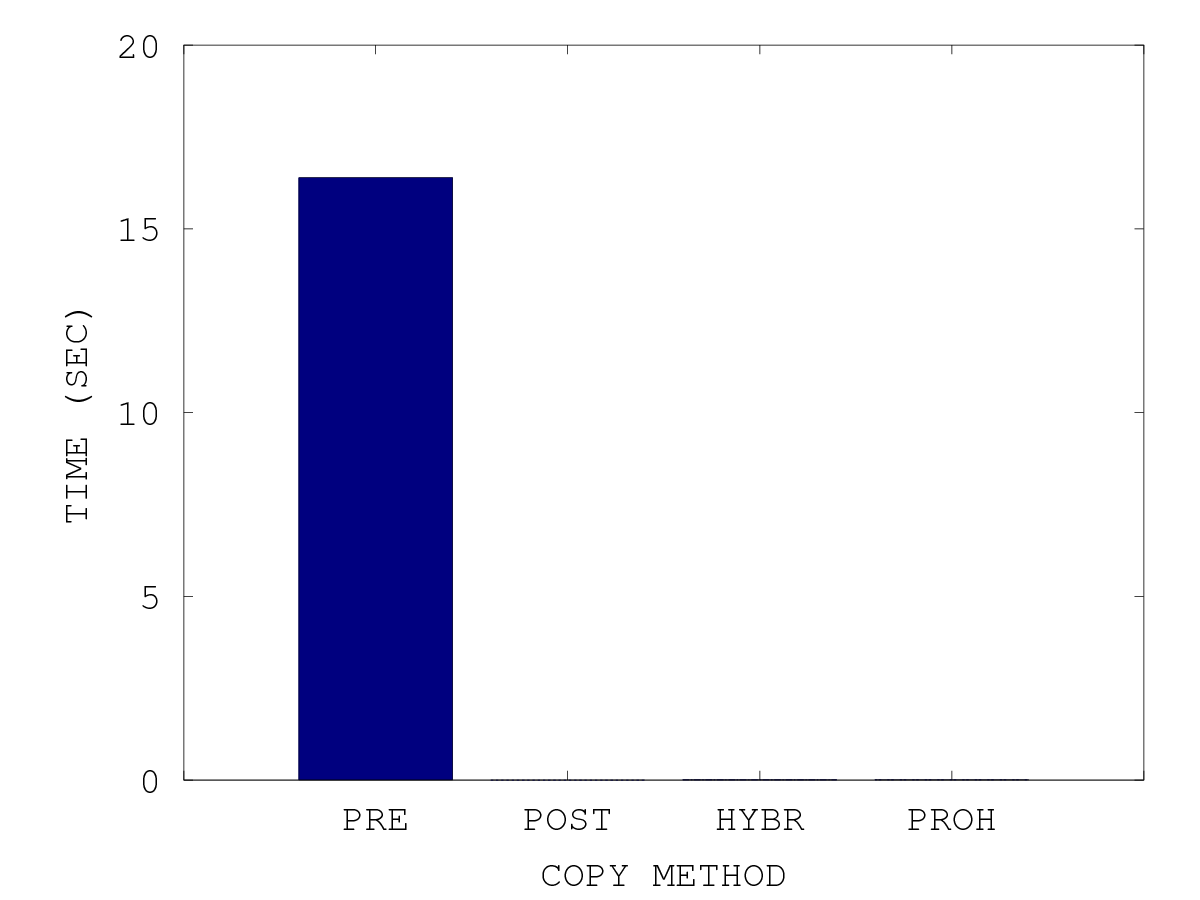
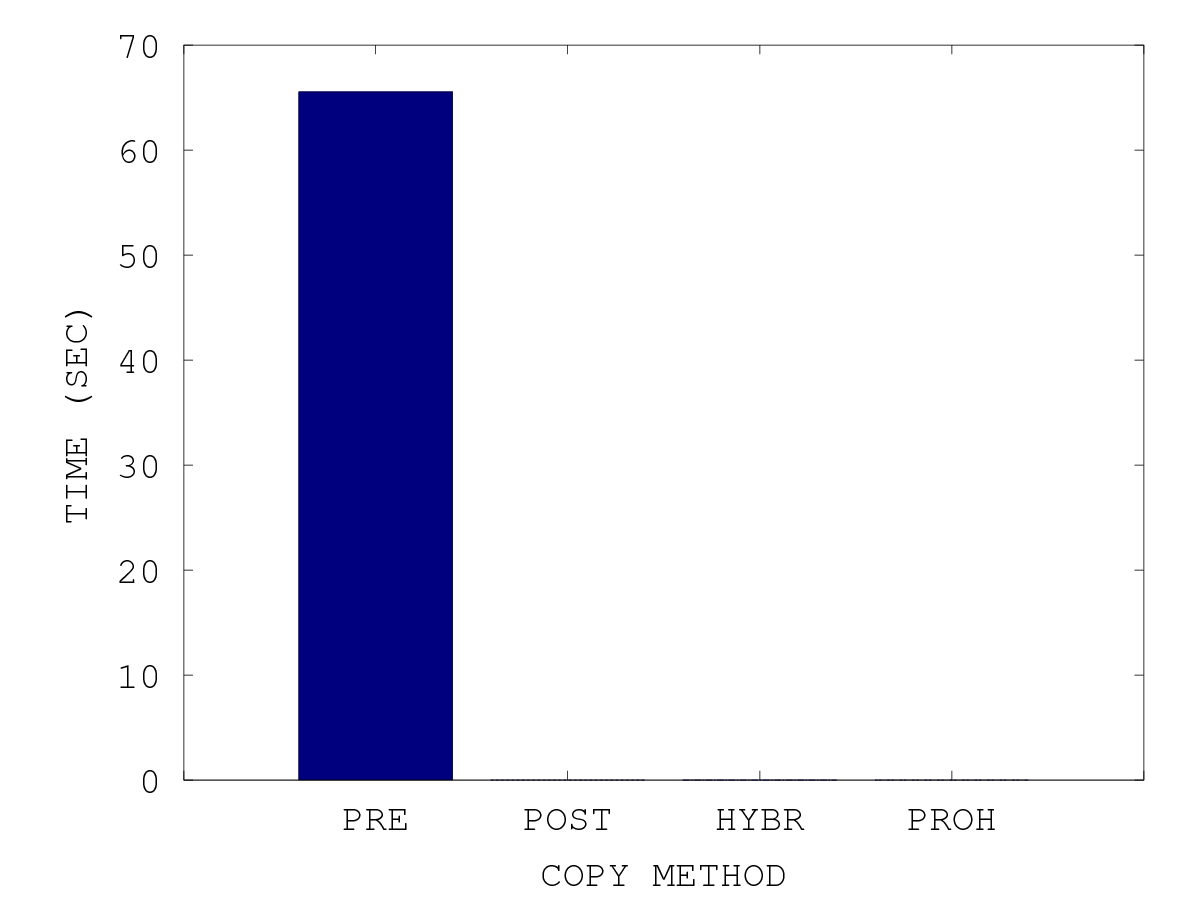
basic.m

diff --git a/basic.m b/basic.m
@@ -56,13 +56,13 @@ A = zeros(4, 3);
 fprintf('\n')
 disp('==================== Precopy migration ====================')
 % iterations
-present = numpages
+present = numpages * pagesize
 iter = 0
 while present > 50 && iter < 29 && totaldata < 4*r
-	pretime = present * pagesize / b
+	pretime = present / b
 	totaltime += pretime
 	totaldata += present
-	present = numpages * dirtyrate
+	present = numpages * pagesize * dirtyrate 
 	%dirts = wss * dirtyrate
 	iter += 1
 end
